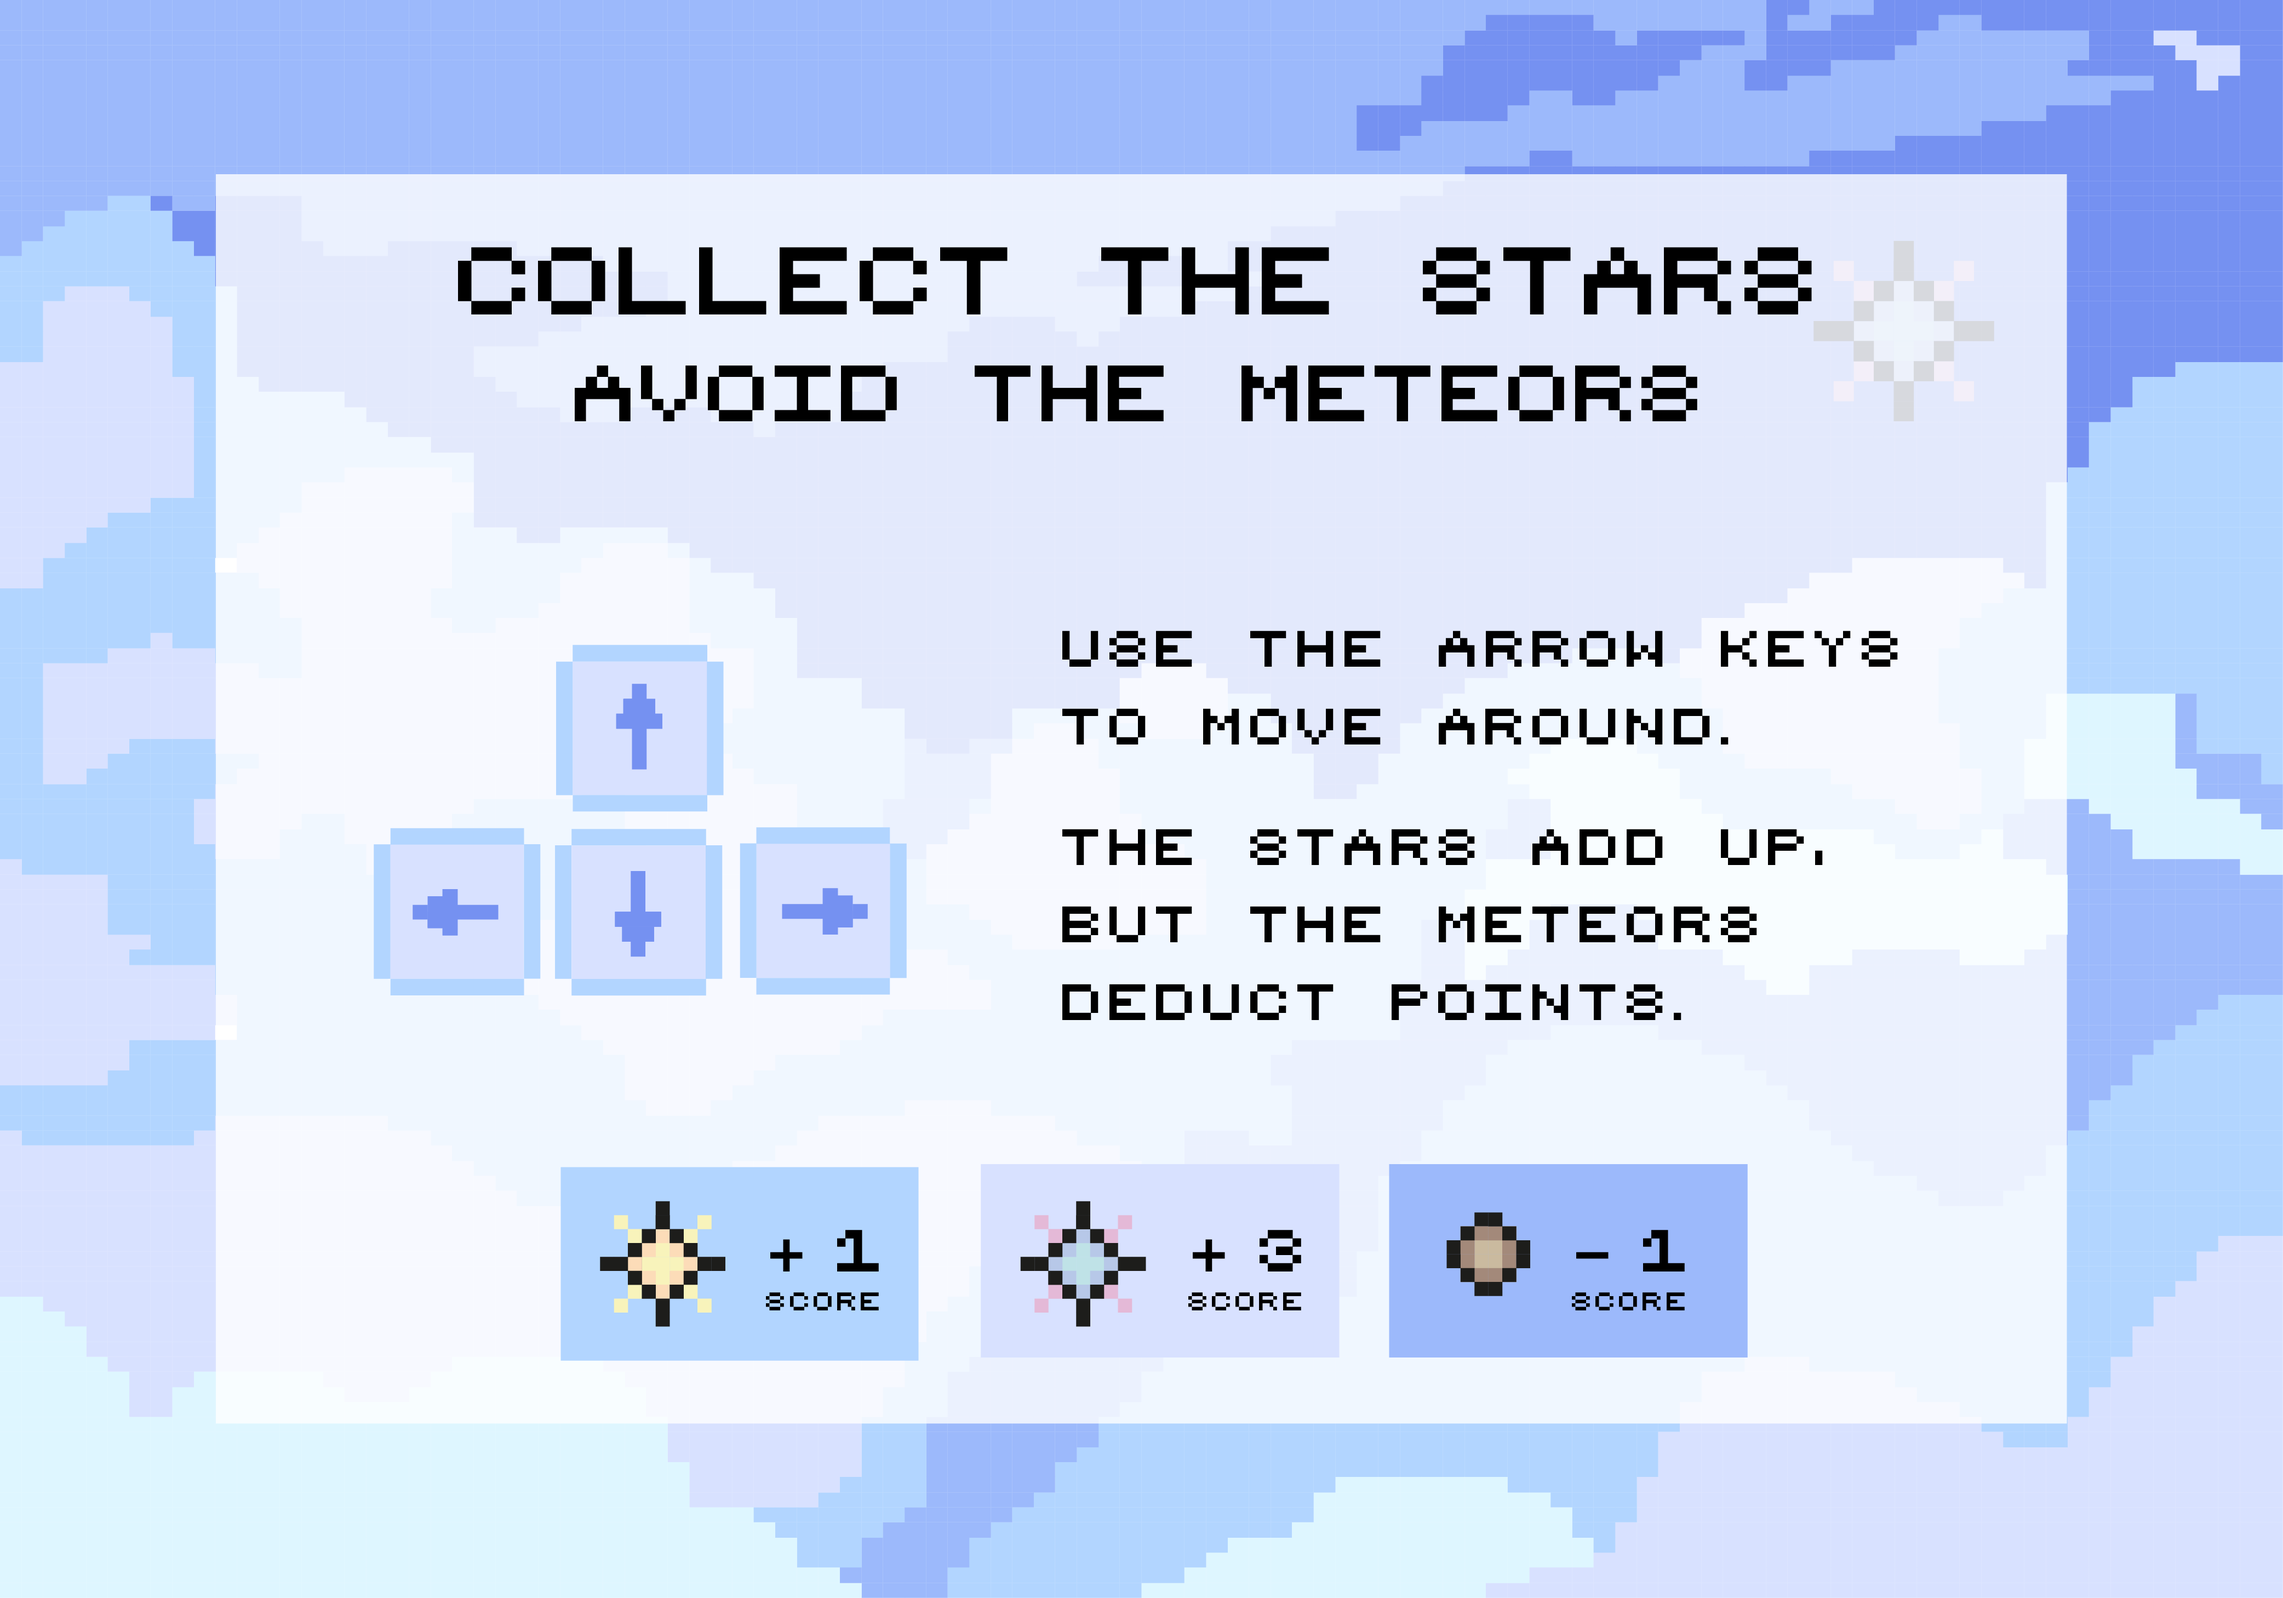
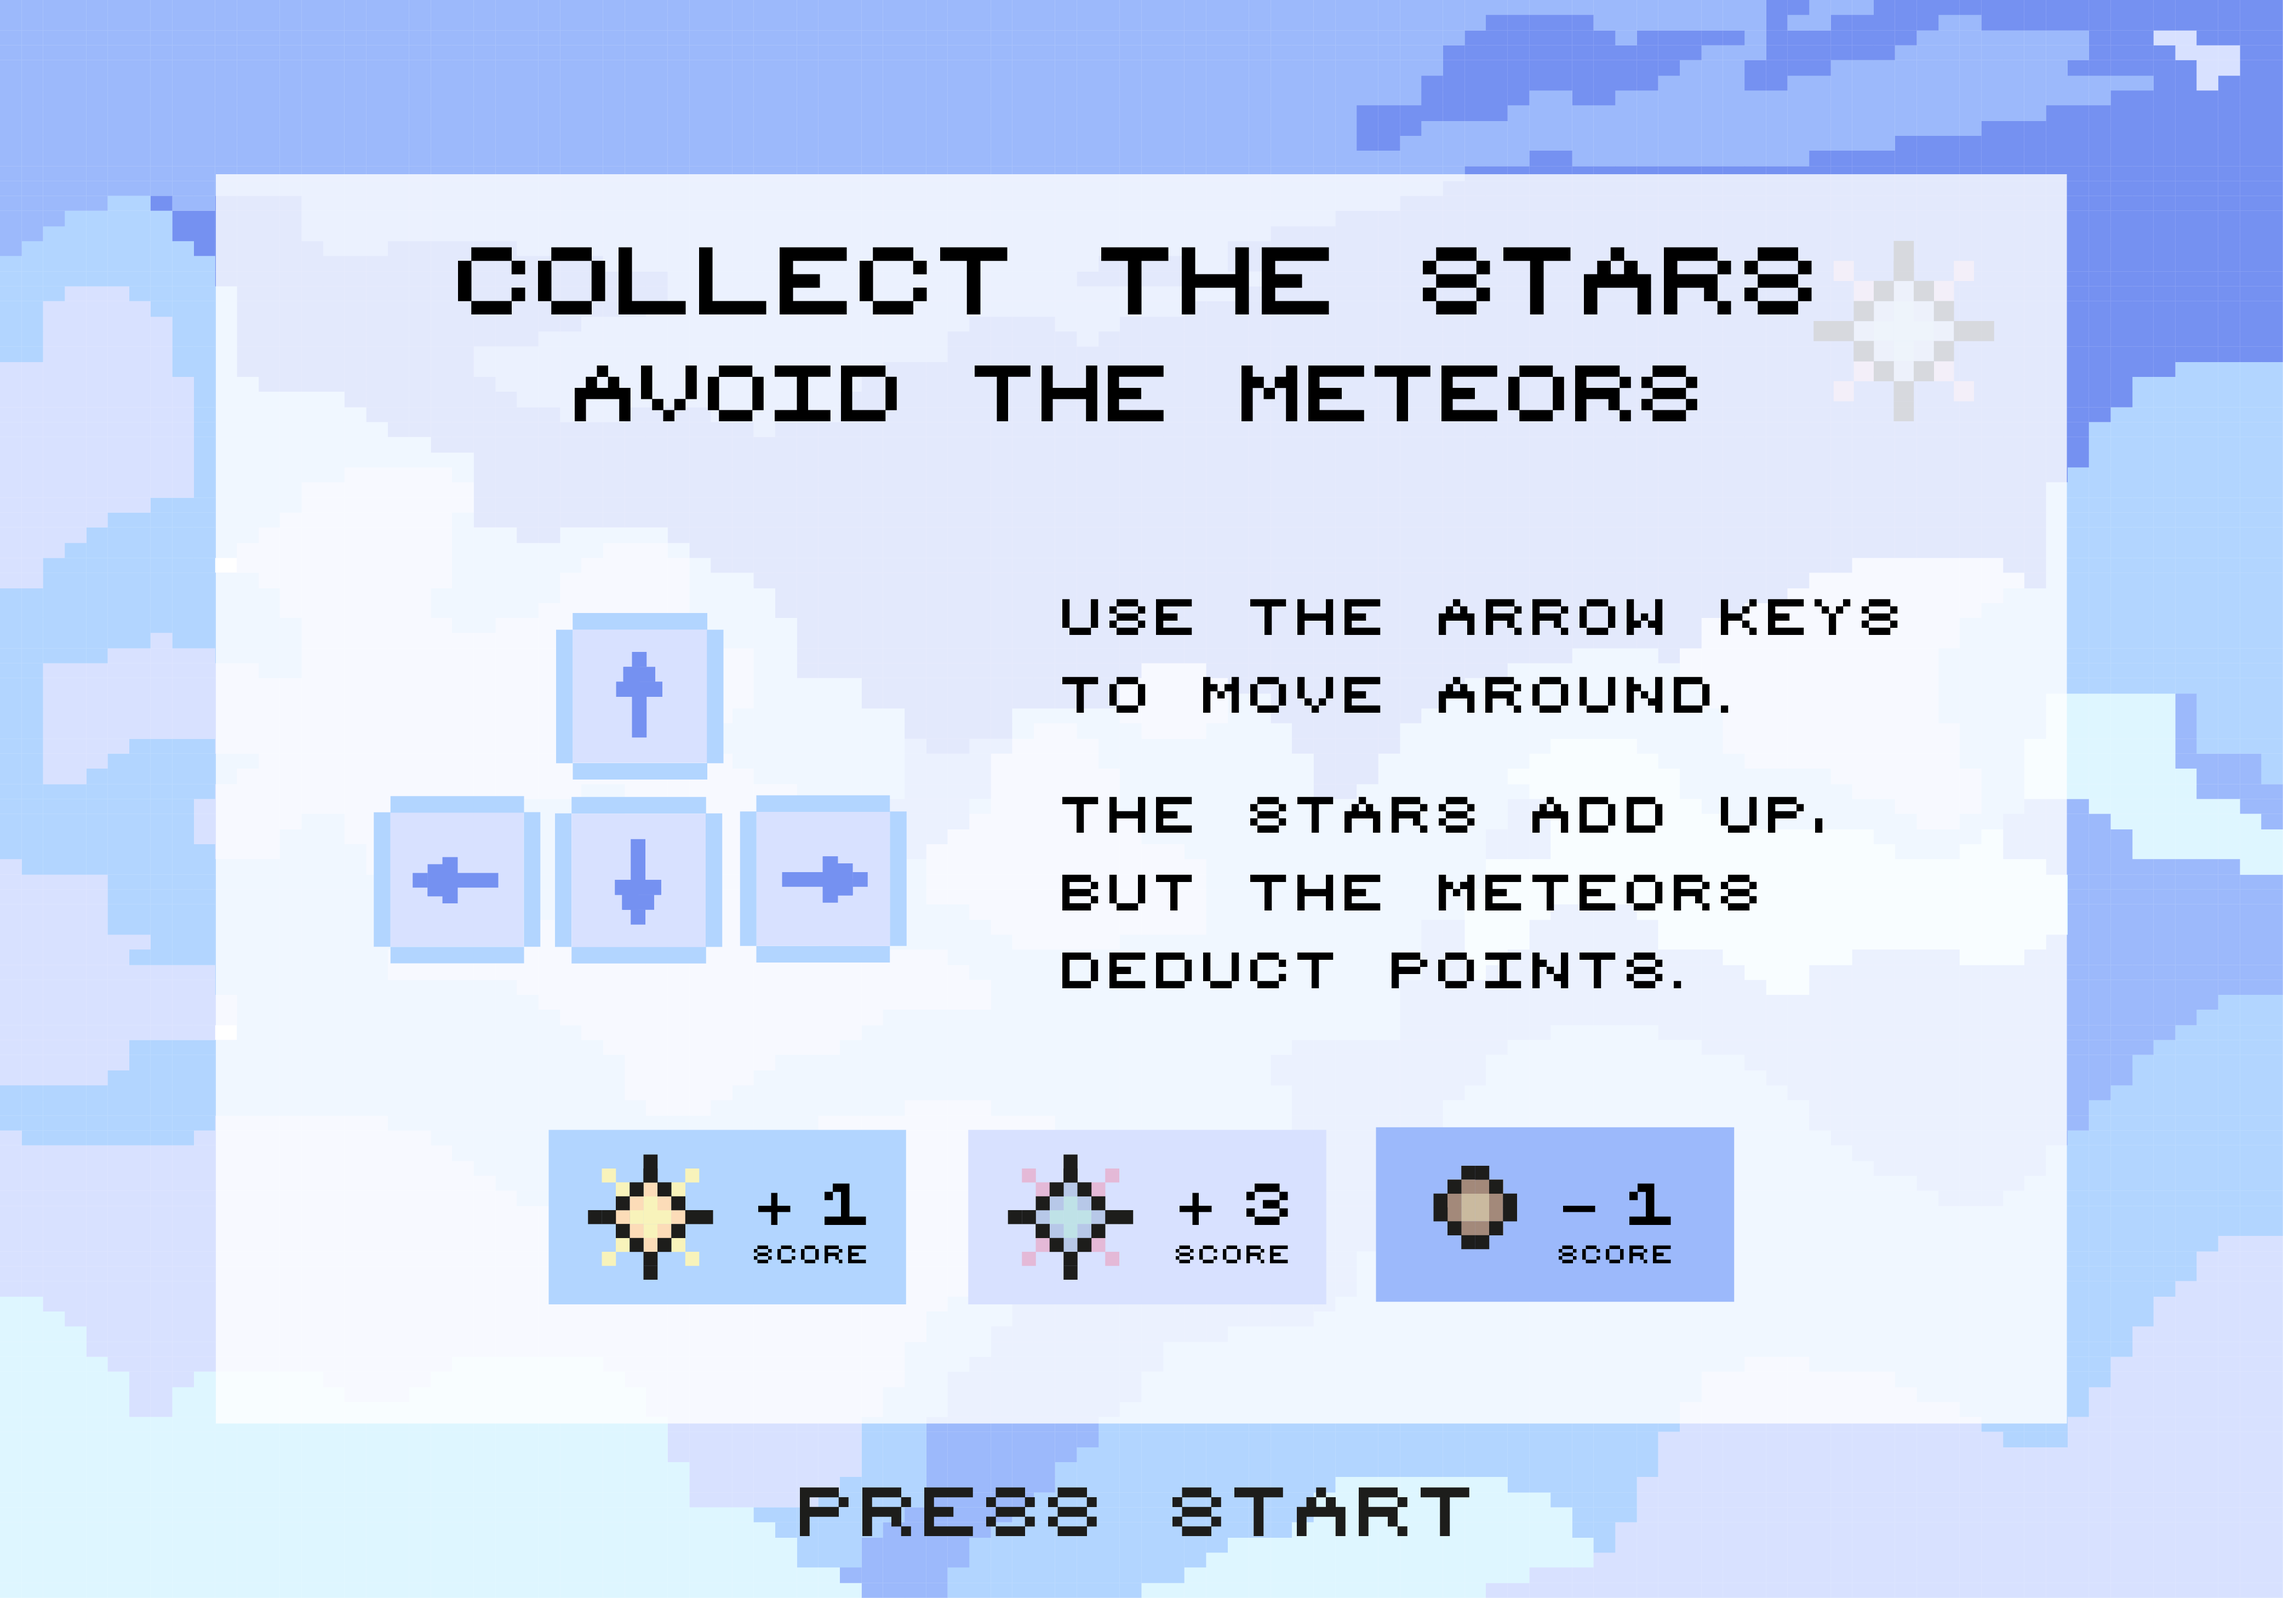
instructions

diff --git a/js/index.js b/js/index.js
@@ -29,6 +29,9 @@ const elements = [
 
 ]
 
+const instructionsImg = new Image();
+instructionsImg.src = './images/instructions.png'
+
 const elementSound = new Audio();
 elementSound.src='./sounds/element-sound.mp3';
 elementSound.volume = 1;
@@ -80,20 +83,29 @@ function startGame() {
 
 
 window.addEventListener("load", () => {
-  ctx.drawImage(bgImgCanvas, 0, 0, 1000, 700)
 
+
+  ctx.drawImage(bgImgCanvas, 0, 0, 1000, 700)
 
   document.getElementById("start-button").onclick = () => {
     
     document.getElementById("start-screen").style.display = "none";
-    
-    startGame();
 
-    startSound.play();
+    ctx.drawImage(instructionsImg, 0, 0, 1000, 700)
+
+    document.addEventListener("keyup", function(event) {
+      if (event.keyCode === 13) {
+
+        startGame();
+
+        startSound.play();
+
+      };
+
+    });
 
   };
-
-
-})
+  
+});
 
 

diff --git a/index.html b/index.html
@@ -18,8 +18,8 @@
 
     <img src='./images/logo.png' id="game-logo">
     <p id="slogan">
-      Colete estrelas e desvie<br>
-      dos meteoros!!!
+      How many Super Stars<br>
+      can you collect?
     </p>
     <button id="start-button">START</button>
 
